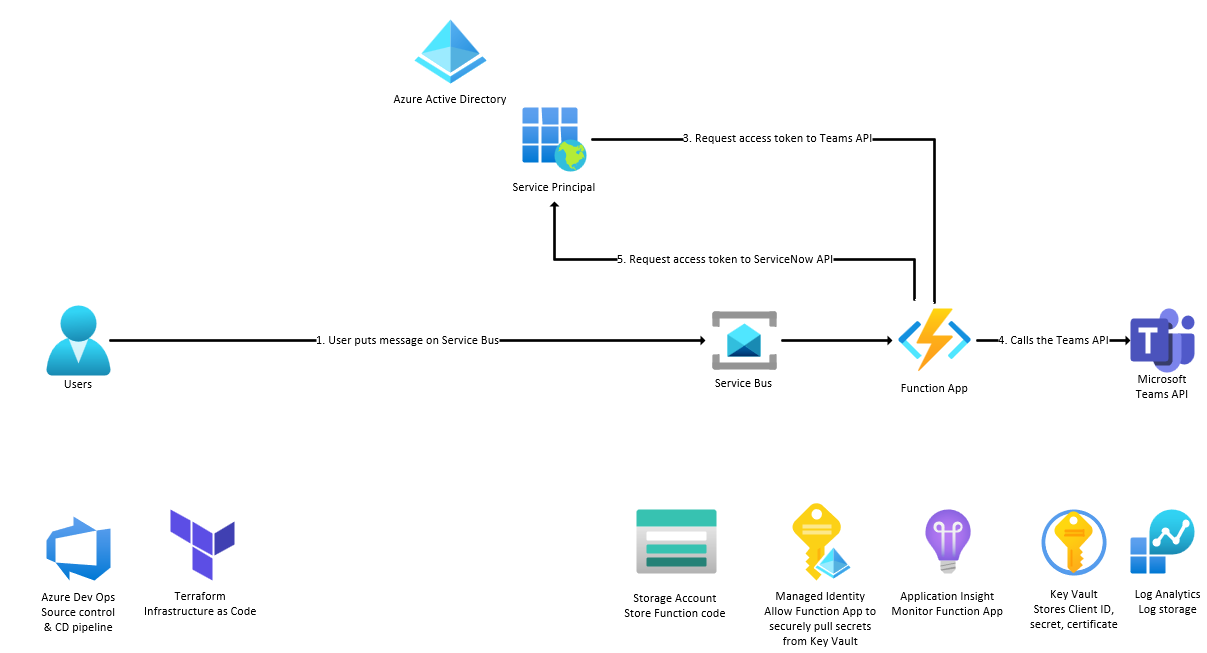
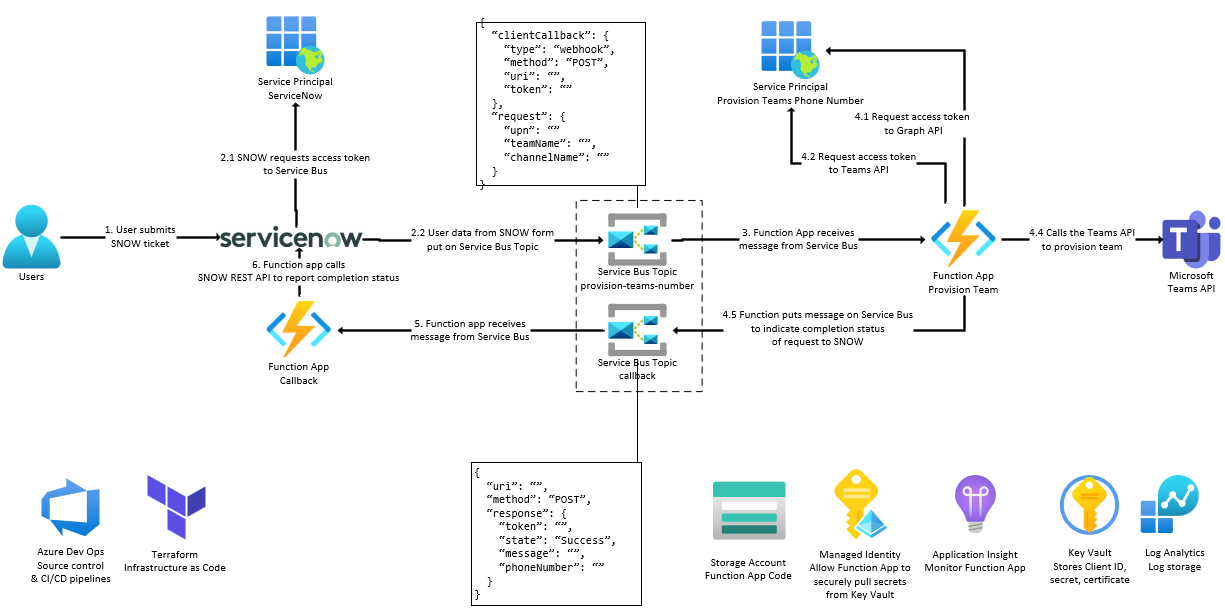
callback

diff --git a/README.md b/README.md
@@ -55,7 +55,7 @@ The Infrastructure as Code (IaC) is written in Terraform.
 1.  Put a message on the queue
 
     ```shell
-    curl -X POST -H "Content-Type: application/json" -H "Authorization: SharedAccessSignature ..." -d '{ "UserPrincipalName": "dwight.k.schrute@dunder-mifflin.com", "TeamName": "PowerShellCreatedTeam", "ChannelName": "PowerShellCreatedChannel"}' https://sb-funcsbteams-ussc-dev.servicebus.windows.net/provision-teams-did/messages
+    curl -X POST -H "Content-Type: application/json" -H "Authorization: Bearer ..." -d '{ "clientCallback": { "type": "webhook", "method": "POST", "uri": "http://localhost",     "token": "asdf" }, "request": { "userPrincipalName": "testTerraform@MngEnv472967.onmicrosoft.com", "teamName": "PowerShellCreatedTeam", "channelName": "PowerShellCreatedChannel"  }}' https://sb-funcsbteams-ussc-dev.servicebus.windows.net/provision-teams/messages
     ```
 
 ## Run locally
